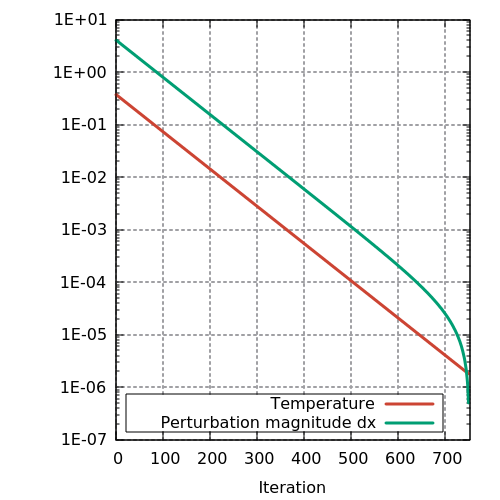
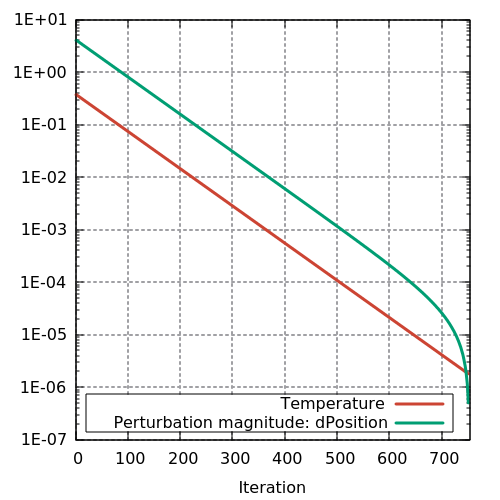
Updated docs and figure.

diff --git a/example/ANNEALING_SCHEDULE.md b/example/ANNEALING_SCHEDULE.md
@@ -9,8 +9,7 @@ These functions have typedef [`TemperatureSequence`][TemperatureSequence]
 and can be used as an argument when
 constructing objects of a type that extends the abstract class [`Simulator`][SimulatorClass].
 
-The annealing schedule show below (figure on the left, red line) consists of a monotonically decreasing exponential sequence
-with 750 elements, start value T<sub>start</sub> = 1902.4 and end value T<sub>end</sub> = 1e-3.
+The annealing schedule show below (figure on the left, red line) consists of a monotonically decreasing exponential sequence with start value T<sub>start</sub> = 0.3673892633, end value T<sub>end</sub> = 0.0000017939, and with 750 steps.
 The simulated annealing temperature schedule can be specified via the [`Simulator`][SimulatorClass] constructor parameters `temperatureSequence` and `iterations`.
 
 The green curve represents the first component of the perturbation magnitudes **dPosition**
@@ -24,7 +23,7 @@ and **b**&nbsp;=&nbsp;**dPositionMax**&nbsp;-&nbsp;**a**\*t<sub>0</sub>.
 ![Temperature 3D](https://raw.githubusercontent.com/simphotonics/simulated_annealing/main/example/plots/temperature.png)
 
 The perturbation magnitude **dPosition** specifies a region of the search space around
-the current solution **x**. From this region a random point is selected as the
+the current solution **position**. From this region a random point is selected as the
 next potential solution.
 
 SA is typically used to solve discrete optimization problems.
